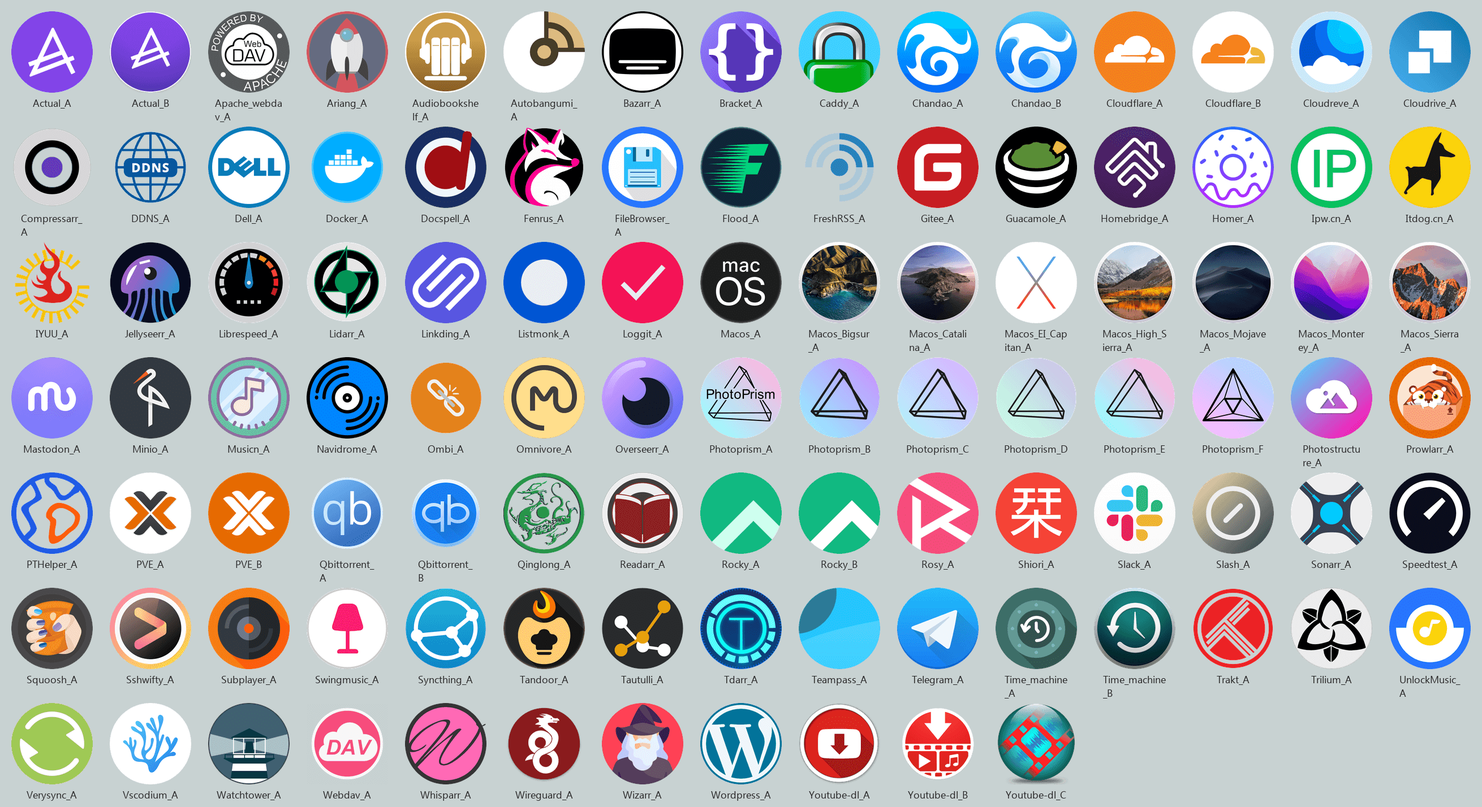
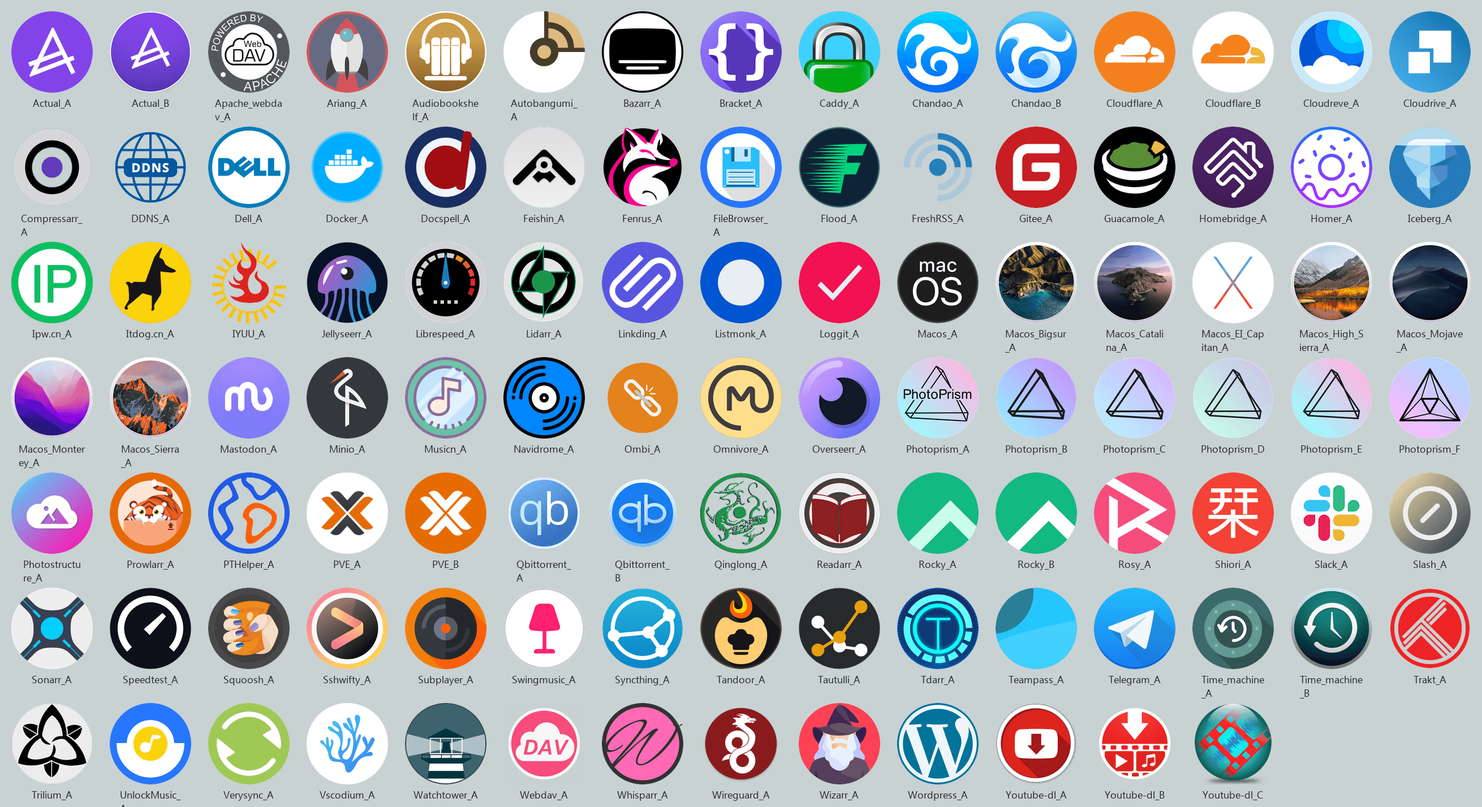
Add Authentik、Feishin、LakeKeeper、PeaNut、Iceberg

diff --git a/README.md b/README.md
@@ -75,7 +75,7 @@
 
 - 例如，图标文件在 `/mnt/user/appdata/icons` 下，则图标地址填写 `/mnt/user/appdata/icons/xxxxx.png` 或者 `http://127.0.0.1/mnt/user/appdata/icons/xxxxx.png`，将 xxxxx 换成对应的图标名称即可，<a href="#圆角矩形图标"><strong>图标名称预览在此 »</strong></a>
 
-# 图标预览（当前共计 1234 个）
+# 图标预览（当前共计 1242 个）
 ## 圆角矩形图标
 <!-- START BORDER-RADIUS ICONS -->
 <img src="https://github.com/xushier/HD-Icons/blob/main/_icons-radius.png" alt="radius">
@@ -90,7 +90,7 @@
 <!-- START SVG ICONS -->
 
 <!-- END SVG ICONS -->
-<img src="svg/9Kuai_A.svg" alt="9Kuai_A" width="95"> <img src="svg/Actual_A.svg" alt="Actual_A" width="95"> <img src="svg/Acunetix_A.svg" alt="Acunetix_A" width="95"> <img src="svg/Adguard-home_A.svg" alt="Adguard-home_A" width="95"> <img src="svg/Adminer_A.svg" alt="Adminer_A" width="95"> <img src="svg/Airflow_A.svg" alt="Airflow_A" width="95"> <img src="svg/Airflow_B.svg" alt="Airflow_B" width="95"> <img src="svg/Airflow_C.svg" alt="Airflow_C" width="95"> <img src="svg/Alicloud_A.svg" alt="Alicloud_A" width="95"> <img src="svg/Alist_A.svg" alt="Alist_A" width="95"> <img src="svg/Amule_A.svg" alt="Amule_A" width="95"> <img src="svg/Anaconda_A.svg" alt="Anaconda_A" width="95"> <img src="svg/Apache_A.svg" alt="Apache_A" width="95"> <img src="svg/Apache_B.svg" alt="Apache_B" width="95"> <img src="svg/Apache_C.svg" alt="Apache_C" width="95"> <img src="svg/Appletv+_A.svg" alt="Appletv+_A" width="95"> <img src="svg/Aqua_A.svg" alt="Aqua_A" width="95"> <img src="svg/Arch_A.svg" alt="Arch_A" width="95"> <img src="svg/Audio-bookshelf_A.svg" alt="Audio-bookshelf_A" width="95"> <img src="svg/Authelia_A.svg" alt="Authelia_A" width="95"> <img src="svg/Authelia_B.svg" alt="Authelia_B" width="95"> <img src="svg/Autobrr_A.svg" alt="Autobrr_A" width="95"> <img src="svg/Baidu_A.svg" alt="Baidu_A" width="95"> <img src="svg/Bard_A.svg" alt="Bard_A" width="95"> <img src="svg/Baserow_A.svg" alt="Baserow_A" width="95"> <img src="svg/Bazarr_A.svg" alt="Bazarr_A" width="95"> <img src="svg/BigDataTools_A.svg" alt="BigDataTools_A" width="95"> <img src="svg/Bilibili_A.svg" alt="Bilibili_A" width="95"> <img src="svg/Bililive-recorder_A.svg" alt="Bililive-recorder_A" width="95"> <img src="svg/Bitwarden_A.svg" alt="Bitwarden_A" width="95"> <img src="svg/Bitwarden_B.svg" alt="Bitwarden_B" width="95"> <img src="svg/Blossom_A.svg" alt="Blossom_A" width="95"> <img src="svg/Bracket_A.svg" alt="Bracket_A" width="95"> <img src="svg/Caddy_A.svg" alt="Caddy_A" width="95"> <img src="svg/Calibre-web_A.svg" alt="Calibre-web_A" width="95"> <img src="svg/Casaos_A.svg" alt="Casaos_A" width="95"> <img src="svg/Centos_A.svg" alt="Centos_A" width="95"> <img src="svg/Centos_B.svg" alt="Centos_B" width="95"> <img src="svg/Chatgpt_A.svg" alt="Chatgpt_A" width="95"> <img src="svg/Chatgpt_B.svg" alt="Chatgpt_B" width="95"> <img src="svg/Chevereto_A.svg" alt="Chevereto_A" width="95"> <img src="svg/Chrome_A.svg" alt="Chrome_A" width="95"> <img src="svg/Claper_A.svg" alt="Claper_A" width="95"> <img src="svg/CLion_A.svg" alt="CLion_A" width="95"> <img src="svg/Cloud-beaver_A.svg" alt="Cloud-beaver_A" width="95"> <img src="svg/Cloud-beaver_B.svg" alt="Cloud-beaver_B" width="95"> <img src="svg/Cloudflare_A.svg" alt="Cloudflare_A" width="95"> <img src="svg/Cloudflare_B.svg" alt="Cloudflare_B" width="95"> <img src="svg/Cloudreve_A.svg" alt="Cloudreve_A" width="95"> <img src="svg/Code-server_A.svg" alt="Code-server_A" width="95"> <img src="svg/Code-with-me_A.svg" alt="Code-with-me_A" width="95"> <img src="svg/Codex-docs_A.svg" alt="Codex-docs_A" width="95"> <img src="svg/Cyberchef_A.svg" alt="Cyberchef_A" width="95"> <img src="svg/Cyberchef_B.svg" alt="Cyberchef_B" width="95"> <img src="svg/DataGrip_A.svg" alt="DataGrip_A" width="95"> <img src="svg/Datalore_A.svg" alt="Datalore_A" width="95"> <img src="svg/DataSpell_A.svg" alt="DataSpell_A" width="95"> <img src="svg/Debian_A.svg" alt="Debian_A" width="95"> <img src="svg/Debian_B.svg" alt="Debian_B" width="95"> <img src="svg/Deepin_A.svg" alt="Deepin_A" width="95"> <img src="svg/Dell_A.svg" alt="Dell_A" width="95"> <img src="svg/Deluge_A.svg" alt="Deluge_A" width="95"> <img src="svg/Directus_A.svg" alt="Directus_A" width="95"> <img src="svg/Directus_B.svg" alt="Directus_B" width="95"> <img src="svg/Discord_A.svg" alt="Discord_A" width="95"> <img src="svg/DM_20240201114214_043.svg" alt="DM_20240201114214_043" width="95"> <img src="svg/Docker-registry_A.svg" alt="Docker-registry_A" width="95"> <img src="svg/Docker_A.svg" alt="Docker_A" width="95"> <img src="svg/Docker_B.svg" alt="Docker_B" width="95"> <img src="svg/Docker_C.svg" alt="Docker_C" width="95"> <img src="svg/Docker_D.svg" alt="Docker_D" width="95"> <img src="svg/Docspell_A.svg" alt="Docspell_A" width="95"> <img src="svg/Dootask.svg" alt="Dootask" width="95"> <img src="svg/Doris_A.svg" alt="Doris_A" width="95"> <img src="svg/DotCover_A.svg" alt="DotCover_A" width="95"> <img src="svg/DotMemory_A.svg" alt="DotMemory_A" width="95"> <img src="svg/DotPeek_A.svg" alt="DotPeek_A" width="95"> <img src="svg/DotTrace_A.svg" alt="DotTrace_A" width="95"> <img src="svg/Dozzle_A.svg" alt="Dozzle_A" width="95"> <img src="svg/Drawio_A.svg" alt="Drawio_A" width="95"> <img src="svg/Duplicati_A.svg" alt="Duplicati_A" width="95"> <img src="svg/Element_A.svg" alt="Element_A" width="95"> <img src="svg/Etherpad_A.svg" alt="Etherpad_A" width="95"> <img src="svg/Featherwiki_A.svg" alt="Featherwiki_A" width="95"> <img src="svg/Fenrus_A.svg" alt="Fenrus_A" width="95"> <img src="svg/Fleet_A.svg" alt="Fleet_A" width="95"> <img src="svg/Flink_A.svg" alt="Flink_A" width="95"> <img src="svg/Flink_B.svg" alt="Flink_B" width="95"> <img src="svg/Focalboard_A.svg" alt="Focalboard_A" width="95"> <img src="svg/Gcore_A.svg" alt="Gcore_A" width="95"> <img src="svg/Gitee_A.svg" alt="Gitee_A" width="95"> <img src="svg/Gitlab_A.svg" alt="Gitlab_A" width="95"> <img src="svg/GoLand_A.svg" alt="GoLand_A" width="95"> <img src="svg/Hadoop_A.svg" alt="Hadoop_A" width="95"> <img src="svg/Hadoop_B.svg" alt="Hadoop_B" width="95"> <img src="svg/Hedgedoc_A.svg" alt="Hedgedoc_A" width="95"> <img src="svg/Heyform_A.svg" alt="Heyform_A" width="95"> <img src="svg/Hive_A.svg" alt="Hive_A" width="95"> <img src="svg/Hoarder_A.svg" alt="Hoarder_A" width="95"> <img src="svg/Homer_A.svg" alt="Homer_A" width="95"> <img src="svg/Intellij-idea_A.svg" alt="Intellij-idea_A" width="95"> <img src="svg/Ipw.cn_A.svg" alt="Ipw.cn_A" width="95"> <img src="svg/It-tools_A.svg" alt="It-tools_A" width="95"> <img src="svg/Jfa-go_A.svg" alt="Jfa-go_A" width="95"> <img src="svg/Jfa-go_B.svg" alt="Jfa-go_B" width="95"> <img src="svg/Jmalcloud_A.svg" alt="Jmalcloud_A" width="95"> <img src="svg/Kopia_A.svg" alt="Kopia_A" width="95"> <img src="svg/Kotlin_A.svg" alt="Kotlin_A" width="95"> <img src="svg/Ktor_A.svg" alt="Ktor_A" width="95"> <img src="svg/Leichi_A.svg" alt="Leichi_A" width="95"> <img src="svg/Librespeed_A.svg" alt="Librespeed_A" width="95"> <img src="svg/Limesurvey_A.svg" alt="Limesurvey_A" width="95"> <img src="svg/Linkding_A.svg" alt="Linkding_A" width="95"> <img src="svg/Listmonk_A.svg" alt="Listmonk_A" width="95"> <img src="svg/Loggit_A.svg" alt="Loggit_A" width="95"> <img src="svg/Lrcapi_A.svg" alt="Lrcapi_A" width="95"> <img src="svg/Lynx_A.svg" alt="Lynx_A" width="95"> <img src="svg/Mafl_A.svg" alt="Mafl_A" width="95"> <img src="svg/Manticore-search_A.svg" alt="Manticore-search_A" width="95"> <img src="svg/Mastodon_A.svg" alt="Mastodon_A" width="95"> <img src="svg/Mastodon_B.svg" alt="Mastodon_B" width="95"> <img src="svg/Mathesar_A.svg" alt="Mathesar_A" width="95"> <img src="svg/Mautic_A.svg" alt="Mautic_A" width="95"> <img src="svg/Mediawiki_A.svg" alt="Mediawiki_A" width="95"> <img src="svg/Meilisearch_A.svg" alt="Meilisearch_A" width="95"> <img src="svg/Meremedical_A.svg" alt="Meremedical_A" width="95"> <img src="svg/Metabase_A.svg" alt="Metabase_A" width="95"> <img src="svg/Microtalk-p2p_A.svg" alt="Microtalk-p2p_A" width="95"> <img src="svg/Microtalk-sfu_A.svg" alt="Microtalk-sfu_A" width="95"> <img src="svg/Mindsdb_A.svg" alt="Mindsdb_A" width="95"> <img src="svg/Miniserve_A.svg" alt="Miniserve_A" width="95"> <img src="svg/Moodle_A.svg" alt="Moodle_A" width="95"> <img src="svg/MPS_A.svg" alt="MPS_A" width="95"> <img src="svg/Nezha_A.svg" alt="Nezha_A" width="95"> <img src="svg/Nginx_A.svg" alt="Nginx_A" width="95"> <img src="svg/Nginx_B.svg" alt="Nginx_B" width="95"> <img src="svg/Nginx_C.svg" alt="Nginx_C" width="95"> <img src="svg/Notabase_A.svg" alt="Notabase_A" width="95"> <img src="svg/Nut_A.svg" alt="Nut_A" width="95"> <img src="svg/Nvidia_A.svg" alt="Nvidia_A" width="95"> <img src="svg/Oauth2proxy_A.svg" alt="Oauth2proxy_A" width="95"> <img src="svg/Outline_A.svg" alt="Outline_A" width="95"> <img src="svg/Padloc_A.svg" alt="Padloc_A" width="95"> <img src="svg/Photopea_A.svg" alt="Photopea_A" width="95"> <img src="svg/PhpStorm_A.svg" alt="PhpStorm_A" width="95"> <img src="svg/Plex_A.svg" alt="Plex_A" width="95"> <img src="svg/Plex_B.svg" alt="Plex_B" width="95"> <img src="svg/Plex_C.svg" alt="Plex_C" width="95"> <img src="svg/Ptools_A.svg" alt="Ptools_A" width="95"> <img src="svg/PyCharm_A.svg" alt="PyCharm_A" width="95"> <img src="svg/Qnap_A.svg" alt="Qnap_A" width="95"> <img src="svg/Qnap_B.svg" alt="Qnap_B" width="95"> <img src="svg/Qodana_A.svg" alt="Qodana_A" width="95"> <img src="svg/Quill_A.svg" alt="Quill_A" width="95"> <img src="svg/Radarr_A.svg" alt="Radarr_A" width="95"> <img src="svg/Readthedocs_A.svg" alt="Readthedocs_A" width="95"> <img src="svg/ReSharper_A.svg" alt="ReSharper_A" width="95"> <img src="svg/ReSharperC++_A.svg" alt="ReSharperC++_A" width="95"> <img src="svg/Rider_A.svg" alt="Rider_A" width="95"> <img src="svg/RiderFlow_A.svg" alt="RiderFlow_A" width="95"> <img src="svg/Rocky_A.svg" alt="Rocky_A" width="95"> <img src="svg/Rog_A.svg" alt="Rog_A" width="95"> <img src="svg/RubyMine_A.svg" alt="RubyMine_A" width="95"> <img src="svg/RustRover_A.svg" alt="RustRover_A" width="95"> <img src="svg/Rxresume_A.svg" alt="Rxresume_A" width="95"> <img src="svg/Scala_A.svg" alt="Scala_A" width="95"> <img src="svg/Servas_A.svg" alt="Servas_A" width="95"> <img src="svg/Snapdrop_A.svg" alt="Snapdrop_A" width="95"> <img src="svg/Splayer_A.svg" alt="Splayer_A" width="95"> <img src="svg/Squoosh_A.svg" alt="Squoosh_A" width="95"> <img src="svg/Sunpanel_A.svg" alt="Sunpanel_A" width="95"> <img src="svg/Superset_A.svg" alt="Superset_A" width="95"> <img src="svg/Superset_B.svg" alt="Superset_B" width="95"> <img src="svg/Superset_C.svg" alt="Superset_C" width="95"> <img src="svg/Superset_D.svg" alt="Superset_D" width="95"> <img src="svg/Superset_E.svg" alt="Superset_E" width="95"> <img src="svg/Superset_F.svg" alt="Superset_F" width="95"> <img src="svg/Superset_G.svg" alt="Superset_G" width="95"> <img src="svg/Swing-music_A.svg" alt="Swing-music_A" width="95"> <img src="svg/Tailchat_A.svg" alt="Tailchat_A" width="95"> <img src="svg/Teable_A.svg" alt="Teable_A" width="95"> <img src="svg/Team-mapper_A.svg" alt="Team-mapper_A" width="95"> <img src="svg/Teampass_A.svg" alt="Teampass_A" width="95"> <img src="svg/Telegram_A.svg" alt="Telegram_A" width="95"> <img src="svg/Telegram_B.svg" alt="Telegram_B" width="95"> <img src="svg/Telegram_C.svg" alt="Telegram_C" width="95"> <img src="svg/Thunderbird_A.svg" alt="Thunderbird_A" width="95"> <img src="svg/Tongyi_A.svg" alt="Tongyi_A" width="95"> <img src="svg/ToolBox_A.svg" alt="ToolBox_A" width="95"> <img src="svg/Traccar_A.svg" alt="Traccar_A" width="95"> <img src="svg/Ubuntu_A.svg" alt="Ubuntu_A" width="95"> <img src="svg/Ubuntu_B.svg" alt="Ubuntu_B" width="95"> <img src="svg/Ubuntu_C.svg" alt="Ubuntu_C" width="95"> <img src="svg/Unbalance_A.svg" alt="Unbalance_A" width="95"> <img src="svg/Unlock-music_A.svg" alt="Unlock-music_A" width="95"> <img src="svg/Unraid_A.svg" alt="Unraid_A" width="95"> <img src="svg/Uptime-kuma_A.svg" alt="Uptime-kuma_A" width="95"> <img src="svg/V2raya_A.svg" alt="V2raya_A" width="95"> <img src="svg/Vagrant_A.svg" alt="Vagrant_A" width="95"> <img src="svg/Vertex_A.svg" alt="Vertex_A" width="95"> <img src="svg/Vertex_B.svg" alt="Vertex_B" width="95"> <img src="svg/Vmware_A.svg" alt="Vmware_A" width="95"> <img src="svg/Vscode_A.svg" alt="Vscode_A" width="95"> <img src="svg/Vscode_B.svg" alt="Vscode_B" width="95"> <img src="svg/Vscodium_A.svg" alt="Vscodium_A" width="95"> <img src="svg/Vscodium_B.svg" alt="Vscodium_B" width="95"> <img src="svg/Wallabag_A.svg" alt="Wallabag_A" width="95"> <img src="svg/Wallabag_B.svg" alt="Wallabag_B" width="95"> <img src="svg/Wallabag_C.svg" alt="Wallabag_C" width="95"> <img src="svg/Watchtower_A.svg" alt="Watchtower_A" width="95"> <img src="svg/Wbo_A.svg" alt="Wbo_A" width="95"> <img src="svg/WebStorm_A.svg" alt="WebStorm_A" width="95"> <img src="svg/Wechat_A.svg" alt="Wechat_A" width="95"> <img src="svg/Wechat_B.svg" alt="Wechat_B" width="95"> <img src="svg/Wekan_A.svg" alt="Wekan_A" width="95"> <img src="svg/Wekan_B.svg" alt="Wekan_B" width="95"> <img src="svg/Whisparr_A.svg" alt="Whisparr_A" width="95"> <img src="svg/Wikijs_A.svg" alt="Wikijs_A" width="95"> <img src="svg/Wireguard_A.svg" alt="Wireguard_A" width="95"> <img src="svg/Wise-mapping_A.svg" alt="Wise-mapping_A" width="95"> <img src="svg/Wordpress_A.svg" alt="Wordpress_A" width="95"> <img src="svg/Writerside_A.svg" alt="Writerside_A" width="95"> <img src="svg/YouTrack_A.svg" alt="YouTrack_A" width="95"> <img src="svg/Youtube_A.svg" alt="Youtube_A" width="95"> <img src="svg/Youtube_B.svg" alt="Youtube_B" width="95"> <img src="svg/Youtube_C.svg" alt="Youtube_C" width="95"> <img src="svg/Youtube_D.svg" alt="Youtube_D" width="95"> <img src="svg/Youtube_E.svg" alt="Youtube_E" width="95"> <img src="svg/Zfile_A.svg" alt="Zfile_A" width="95"> <img src="svg/Zigbeemqtt_A.svg" alt="Zigbeemqtt_A" width="95"> <img src="svg/Zimaos_A.svg" alt="Zimaos_A" width="95"> <img src="svg/节点小宝_A.svg" alt="节点小宝_A" width="95">
+<img src="svg/9Kuai_A.svg" alt="9Kuai_A" width="95"> <img src="svg/Actual_A.svg" alt="Actual_A" width="95"> <img src="svg/Acunetix_A.svg" alt="Acunetix_A" width="95"> <img src="svg/Adguard-home_A.svg" alt="Adguard-home_A" width="95"> <img src="svg/Adminer_A.svg" alt="Adminer_A" width="95"> <img src="svg/Airflow_A.svg" alt="Airflow_A" width="95"> <img src="svg/Airflow_B.svg" alt="Airflow_B" width="95"> <img src="svg/Airflow_C.svg" alt="Airflow_C" width="95"> <img src="svg/Alicloud_A.svg" alt="Alicloud_A" width="95"> <img src="svg/Alist_A.svg" alt="Alist_A" width="95"> <img src="svg/Amule_A.svg" alt="Amule_A" width="95"> <img src="svg/Anaconda_A.svg" alt="Anaconda_A" width="95"> <img src="svg/Apache_A.svg" alt="Apache_A" width="95"> <img src="svg/Apache_B.svg" alt="Apache_B" width="95"> <img src="svg/Apache_C.svg" alt="Apache_C" width="95"> <img src="svg/Appletv+_A.svg" alt="Appletv+_A" width="95"> <img src="svg/Aqua_A.svg" alt="Aqua_A" width="95"> <img src="svg/Arch_A.svg" alt="Arch_A" width="95"> <img src="svg/Audio-bookshelf_A.svg" alt="Audio-bookshelf_A" width="95"> <img src="svg/Authelia_A.svg" alt="Authelia_A" width="95"> <img src="svg/Authelia_B.svg" alt="Authelia_B" width="95"> <img src="svg/Authentik_A.svg" alt="Authentik_A" width="95"> <img src="svg/Autobrr_A.svg" alt="Autobrr_A" width="95"> <img src="svg/Baidu_A.svg" alt="Baidu_A" width="95"> <img src="svg/Bard_A.svg" alt="Bard_A" width="95"> <img src="svg/Baserow_A.svg" alt="Baserow_A" width="95"> <img src="svg/Bazarr_A.svg" alt="Bazarr_A" width="95"> <img src="svg/BigDataTools_A.svg" alt="BigDataTools_A" width="95"> <img src="svg/Bilibili_A.svg" alt="Bilibili_A" width="95"> <img src="svg/Bililive-recorder_A.svg" alt="Bililive-recorder_A" width="95"> <img src="svg/Bitwarden_A.svg" alt="Bitwarden_A" width="95"> <img src="svg/Bitwarden_B.svg" alt="Bitwarden_B" width="95"> <img src="svg/Blossom_A.svg" alt="Blossom_A" width="95"> <img src="svg/Bracket_A.svg" alt="Bracket_A" width="95"> <img src="svg/Caddy_A.svg" alt="Caddy_A" width="95"> <img src="svg/Calibre-web_A.svg" alt="Calibre-web_A" width="95"> <img src="svg/Casaos_A.svg" alt="Casaos_A" width="95"> <img src="svg/Centos_A.svg" alt="Centos_A" width="95"> <img src="svg/Centos_B.svg" alt="Centos_B" width="95"> <img src="svg/Chatgpt_A.svg" alt="Chatgpt_A" width="95"> <img src="svg/Chatgpt_B.svg" alt="Chatgpt_B" width="95"> <img src="svg/Chevereto_A.svg" alt="Chevereto_A" width="95"> <img src="svg/Chrome_A.svg" alt="Chrome_A" width="95"> <img src="svg/Claper_A.svg" alt="Claper_A" width="95"> <img src="svg/CLion_A.svg" alt="CLion_A" width="95"> <img src="svg/Cloud-beaver_A.svg" alt="Cloud-beaver_A" width="95"> <img src="svg/Cloud-beaver_B.svg" alt="Cloud-beaver_B" width="95"> <img src="svg/Cloudflare_A.svg" alt="Cloudflare_A" width="95"> <img src="svg/Cloudflare_B.svg" alt="Cloudflare_B" width="95"> <img src="svg/Cloudreve_A.svg" alt="Cloudreve_A" width="95"> <img src="svg/Code-server_A.svg" alt="Code-server_A" width="95"> <img src="svg/Code-with-me_A.svg" alt="Code-with-me_A" width="95"> <img src="svg/Codex-docs_A.svg" alt="Codex-docs_A" width="95"> <img src="svg/Cyberchef_A.svg" alt="Cyberchef_A" width="95"> <img src="svg/Cyberchef_B.svg" alt="Cyberchef_B" width="95"> <img src="svg/DataGrip_A.svg" alt="DataGrip_A" width="95"> <img src="svg/Datalore_A.svg" alt="Datalore_A" width="95"> <img src="svg/DataSpell_A.svg" alt="DataSpell_A" width="95"> <img src="svg/Debian_A.svg" alt="Debian_A" width="95"> <img src="svg/Debian_B.svg" alt="Debian_B" width="95"> <img src="svg/Deepin_A.svg" alt="Deepin_A" width="95"> <img src="svg/Dell_A.svg" alt="Dell_A" width="95"> <img src="svg/Deluge_A.svg" alt="Deluge_A" width="95"> <img src="svg/Directus_A.svg" alt="Directus_A" width="95"> <img src="svg/Directus_B.svg" alt="Directus_B" width="95"> <img src="svg/Discord_A.svg" alt="Discord_A" width="95"> <img src="svg/DM_20240201114214_043.svg" alt="DM_20240201114214_043" width="95"> <img src="svg/Docker-registry_A.svg" alt="Docker-registry_A" width="95"> <img src="svg/Docker_A.svg" alt="Docker_A" width="95"> <img src="svg/Docker_B.svg" alt="Docker_B" width="95"> <img src="svg/Docker_C.svg" alt="Docker_C" width="95"> <img src="svg/Docker_D.svg" alt="Docker_D" width="95"> <img src="svg/Docspell_A.svg" alt="Docspell_A" width="95"> <img src="svg/Dootask.svg" alt="Dootask" width="95"> <img src="svg/Doris_A.svg" alt="Doris_A" width="95"> <img src="svg/DotCover_A.svg" alt="DotCover_A" width="95"> <img src="svg/DotMemory_A.svg" alt="DotMemory_A" width="95"> <img src="svg/DotPeek_A.svg" alt="DotPeek_A" width="95"> <img src="svg/DotTrace_A.svg" alt="DotTrace_A" width="95"> <img src="svg/Dozzle_A.svg" alt="Dozzle_A" width="95"> <img src="svg/Drawio_A.svg" alt="Drawio_A" width="95"> <img src="svg/Duplicati_A.svg" alt="Duplicati_A" width="95"> <img src="svg/Element_A.svg" alt="Element_A" width="95"> <img src="svg/Etherpad_A.svg" alt="Etherpad_A" width="95"> <img src="svg/Featherwiki_A.svg" alt="Featherwiki_A" width="95"> <img src="svg/Fenrus_A.svg" alt="Fenrus_A" width="95"> <img src="svg/Fleet_A.svg" alt="Fleet_A" width="95"> <img src="svg/Flink_A.svg" alt="Flink_A" width="95"> <img src="svg/Flink_B.svg" alt="Flink_B" width="95"> <img src="svg/Focalboard_A.svg" alt="Focalboard_A" width="95"> <img src="svg/Gcore_A.svg" alt="Gcore_A" width="95"> <img src="svg/Gitee_A.svg" alt="Gitee_A" width="95"> <img src="svg/Gitlab_A.svg" alt="Gitlab_A" width="95"> <img src="svg/GoLand_A.svg" alt="GoLand_A" width="95"> <img src="svg/Hadoop_A.svg" alt="Hadoop_A" width="95"> <img src="svg/Hadoop_B.svg" alt="Hadoop_B" width="95"> <img src="svg/Hedgedoc_A.svg" alt="Hedgedoc_A" width="95"> <img src="svg/Heyform_A.svg" alt="Heyform_A" width="95"> <img src="svg/Hive_A.svg" alt="Hive_A" width="95"> <img src="svg/Hoarder_A.svg" alt="Hoarder_A" width="95"> <img src="svg/Homer_A.svg" alt="Homer_A" width="95"> <img src="svg/Intellij-idea_A.svg" alt="Intellij-idea_A" width="95"> <img src="svg/Ipw.cn_A.svg" alt="Ipw.cn_A" width="95"> <img src="svg/It-tools_A.svg" alt="It-tools_A" width="95"> <img src="svg/Jfa-go_A.svg" alt="Jfa-go_A" width="95"> <img src="svg/Jfa-go_B.svg" alt="Jfa-go_B" width="95"> <img src="svg/Jmalcloud_A.svg" alt="Jmalcloud_A" width="95"> <img src="svg/Kopia_A.svg" alt="Kopia_A" width="95"> <img src="svg/Kotlin_A.svg" alt="Kotlin_A" width="95"> <img src="svg/Ktor_A.svg" alt="Ktor_A" width="95"> <img src="svg/Leichi_A.svg" alt="Leichi_A" width="95"> <img src="svg/Librespeed_A.svg" alt="Librespeed_A" width="95"> <img src="svg/Limesurvey_A.svg" alt="Limesurvey_A" width="95"> <img src="svg/Linkding_A.svg" alt="Linkding_A" width="95"> <img src="svg/Listmonk_A.svg" alt="Listmonk_A" width="95"> <img src="svg/Loggit_A.svg" alt="Loggit_A" width="95"> <img src="svg/Lrcapi_A.svg" alt="Lrcapi_A" width="95"> <img src="svg/Lynx_A.svg" alt="Lynx_A" width="95"> <img src="svg/Mafl_A.svg" alt="Mafl_A" width="95"> <img src="svg/Manticore-search_A.svg" alt="Manticore-search_A" width="95"> <img src="svg/Mastodon_A.svg" alt="Mastodon_A" width="95"> <img src="svg/Mastodon_B.svg" alt="Mastodon_B" width="95"> <img src="svg/Mathesar_A.svg" alt="Mathesar_A" width="95"> <img src="svg/Mautic_A.svg" alt="Mautic_A" width="95"> <img src="svg/Mediawiki_A.svg" alt="Mediawiki_A" width="95"> <img src="svg/Meilisearch_A.svg" alt="Meilisearch_A" width="95"> <img src="svg/Meremedical_A.svg" alt="Meremedical_A" width="95"> <img src="svg/Metabase_A.svg" alt="Metabase_A" width="95"> <img src="svg/Microtalk-p2p_A.svg" alt="Microtalk-p2p_A" width="95"> <img src="svg/Microtalk-sfu_A.svg" alt="Microtalk-sfu_A" width="95"> <img src="svg/Mindsdb_A.svg" alt="Mindsdb_A" width="95"> <img src="svg/Miniserve_A.svg" alt="Miniserve_A" width="95"> <img src="svg/Moodle_A.svg" alt="Moodle_A" width="95"> <img src="svg/MPS_A.svg" alt="MPS_A" width="95"> <img src="svg/Nezha_A.svg" alt="Nezha_A" width="95"> <img src="svg/Nginx_A.svg" alt="Nginx_A" width="95"> <img src="svg/Nginx_B.svg" alt="Nginx_B" width="95"> <img src="svg/Nginx_C.svg" alt="Nginx_C" width="95"> <img src="svg/Notabase_A.svg" alt="Notabase_A" width="95"> <img src="svg/Nut_A.svg" alt="Nut_A" width="95"> <img src="svg/Nvidia_A.svg" alt="Nvidia_A" width="95"> <img src="svg/Oauth2proxy_A.svg" alt="Oauth2proxy_A" width="95"> <img src="svg/Outline_A.svg" alt="Outline_A" width="95"> <img src="svg/Padloc_A.svg" alt="Padloc_A" width="95"> <img src="svg/Photopea_A.svg" alt="Photopea_A" width="95"> <img src="svg/PhpStorm_A.svg" alt="PhpStorm_A" width="95"> <img src="svg/Plex_A.svg" alt="Plex_A" width="95"> <img src="svg/Plex_B.svg" alt="Plex_B" width="95"> <img src="svg/Plex_C.svg" alt="Plex_C" width="95"> <img src="svg/Ptools_A.svg" alt="Ptools_A" width="95"> <img src="svg/PyCharm_A.svg" alt="PyCharm_A" width="95"> <img src="svg/Qnap_A.svg" alt="Qnap_A" width="95"> <img src="svg/Qnap_B.svg" alt="Qnap_B" width="95"> <img src="svg/Qodana_A.svg" alt="Qodana_A" width="95"> <img src="svg/Quill_A.svg" alt="Quill_A" width="95"> <img src="svg/Radarr_A.svg" alt="Radarr_A" width="95"> <img src="svg/Readthedocs_A.svg" alt="Readthedocs_A" width="95"> <img src="svg/ReSharper_A.svg" alt="ReSharper_A" width="95"> <img src="svg/ReSharperC++_A.svg" alt="ReSharperC++_A" width="95"> <img src="svg/Rider_A.svg" alt="Rider_A" width="95"> <img src="svg/RiderFlow_A.svg" alt="RiderFlow_A" width="95"> <img src="svg/Rocky_A.svg" alt="Rocky_A" width="95"> <img src="svg/Rog_A.svg" alt="Rog_A" width="95"> <img src="svg/RubyMine_A.svg" alt="RubyMine_A" width="95"> <img src="svg/RustRover_A.svg" alt="RustRover_A" width="95"> <img src="svg/Rxresume_A.svg" alt="Rxresume_A" width="95"> <img src="svg/Scala_A.svg" alt="Scala_A" width="95"> <img src="svg/Servas_A.svg" alt="Servas_A" width="95"> <img src="svg/Snapdrop_A.svg" alt="Snapdrop_A" width="95"> <img src="svg/Splayer_A.svg" alt="Splayer_A" width="95"> <img src="svg/Squoosh_A.svg" alt="Squoosh_A" width="95"> <img src="svg/Sunpanel_A.svg" alt="Sunpanel_A" width="95"> <img src="svg/Superset_A.svg" alt="Superset_A" width="95"> <img src="svg/Superset_B.svg" alt="Superset_B" width="95"> <img src="svg/Superset_C.svg" alt="Superset_C" width="95"> <img src="svg/Superset_D.svg" alt="Superset_D" width="95"> <img src="svg/Superset_E.svg" alt="Superset_E" width="95"> <img src="svg/Superset_F.svg" alt="Superset_F" width="95"> <img src="svg/Superset_G.svg" alt="Superset_G" width="95"> <img src="svg/Swing-music_A.svg" alt="Swing-music_A" width="95"> <img src="svg/Tailchat_A.svg" alt="Tailchat_A" width="95"> <img src="svg/Teable_A.svg" alt="Teable_A" width="95"> <img src="svg/Team-mapper_A.svg" alt="Team-mapper_A" width="95"> <img src="svg/Teampass_A.svg" alt="Teampass_A" width="95"> <img src="svg/Telegram_A.svg" alt="Telegram_A" width="95"> <img src="svg/Telegram_B.svg" alt="Telegram_B" width="95"> <img src="svg/Telegram_C.svg" alt="Telegram_C" width="95"> <img src="svg/Thunderbird_A.svg" alt="Thunderbird_A" width="95"> <img src="svg/Tongyi_A.svg" alt="Tongyi_A" width="95"> <img src="svg/ToolBox_A.svg" alt="ToolBox_A" width="95"> <img src="svg/Traccar_A.svg" alt="Traccar_A" width="95"> <img src="svg/Ubuntu_A.svg" alt="Ubuntu_A" width="95"> <img src="svg/Ubuntu_B.svg" alt="Ubuntu_B" width="95"> <img src="svg/Ubuntu_C.svg" alt="Ubuntu_C" width="95"> <img src="svg/Unbalance_A.svg" alt="Unbalance_A" width="95"> <img src="svg/Unlock-music_A.svg" alt="Unlock-music_A" width="95"> <img src="svg/Unraid_A.svg" alt="Unraid_A" width="95"> <img src="svg/Uptime-kuma_A.svg" alt="Uptime-kuma_A" width="95"> <img src="svg/V2raya_A.svg" alt="V2raya_A" width="95"> <img src="svg/Vagrant_A.svg" alt="Vagrant_A" width="95"> <img src="svg/Vertex_A.svg" alt="Vertex_A" width="95"> <img src="svg/Vertex_B.svg" alt="Vertex_B" width="95"> <img src="svg/Vmware_A.svg" alt="Vmware_A" width="95"> <img src="svg/Vscode_A.svg" alt="Vscode_A" width="95"> <img src="svg/Vscode_B.svg" alt="Vscode_B" width="95"> <img src="svg/Vscodium_A.svg" alt="Vscodium_A" width="95"> <img src="svg/Vscodium_B.svg" alt="Vscodium_B" width="95"> <img src="svg/Wallabag_A.svg" alt="Wallabag_A" width="95"> <img src="svg/Wallabag_B.svg" alt="Wallabag_B" width="95"> <img src="svg/Wallabag_C.svg" alt="Wallabag_C" width="95"> <img src="svg/Watchtower_A.svg" alt="Watchtower_A" width="95"> <img src="svg/Wbo_A.svg" alt="Wbo_A" width="95"> <img src="svg/WebStorm_A.svg" alt="WebStorm_A" width="95"> <img src="svg/Wechat_A.svg" alt="Wechat_A" width="95"> <img src="svg/Wechat_B.svg" alt="Wechat_B" width="95"> <img src="svg/Wekan_A.svg" alt="Wekan_A" width="95"> <img src="svg/Wekan_B.svg" alt="Wekan_B" width="95"> <img src="svg/Whisparr_A.svg" alt="Whisparr_A" width="95"> <img src="svg/Wikijs_A.svg" alt="Wikijs_A" width="95"> <img src="svg/Wireguard_A.svg" alt="Wireguard_A" width="95"> <img src="svg/Wise-mapping_A.svg" alt="Wise-mapping_A" width="95"> <img src="svg/Wordpress_A.svg" alt="Wordpress_A" width="95"> <img src="svg/Writerside_A.svg" alt="Writerside_A" width="95"> <img src="svg/YouTrack_A.svg" alt="YouTrack_A" width="95"> <img src="svg/Youtube_A.svg" alt="Youtube_A" width="95"> <img src="svg/Youtube_B.svg" alt="Youtube_B" width="95"> <img src="svg/Youtube_C.svg" alt="Youtube_C" width="95"> <img src="svg/Youtube_D.svg" alt="Youtube_D" width="95"> <img src="svg/Youtube_E.svg" alt="Youtube_E" width="95"> <img src="svg/Zfile_A.svg" alt="Zfile_A" width="95"> <img src="svg/Zigbeemqtt_A.svg" alt="Zigbeemqtt_A" width="95"> <img src="svg/Zimaos_A.svg" alt="Zimaos_A" width="95"> <img src="svg/节点小宝_A.svg" alt="节点小宝_A" width="95">
 
 <!-- LEGAL -->
 
